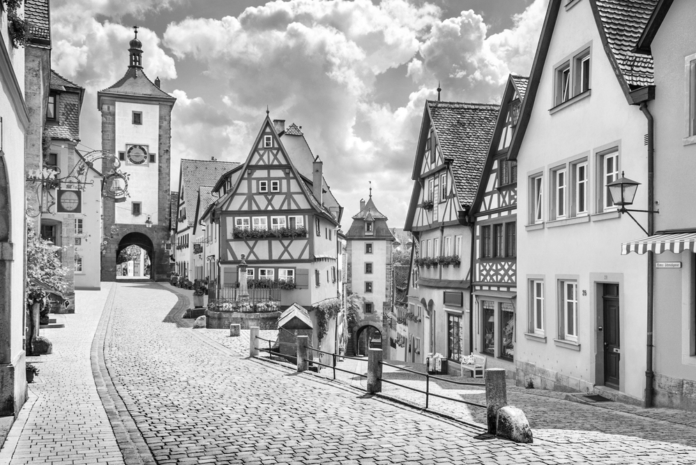
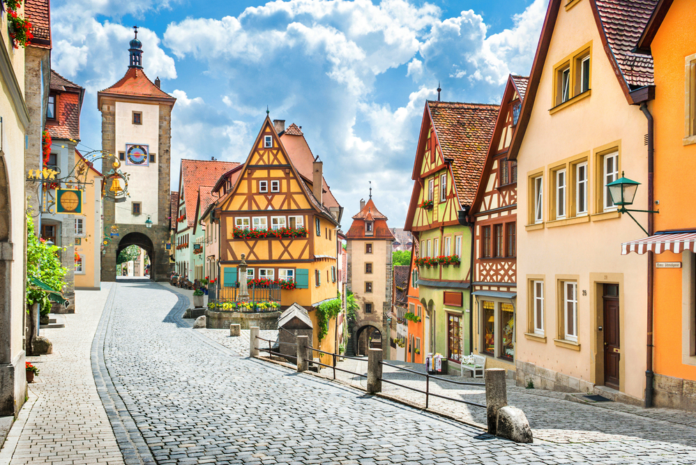
add colored bilateral

diff --git a/bilateral/main.py b/bilateral/main.py
@@ -1,10 +1,10 @@
 from PIL import Image
 from PIL.ImageFilter import GaussianBlur
 import numpy as np
-from scipy.signal import convolve2d
+from scipy.signal import convolve2d, convolve
 
 
-def spatial_kernel(s=1, reduce=True):
+def spatial_kernel(s=1, channels=1, reduce=True):
     l = int(s * 2) | 1  # determine kernel size
     x = np.tile((np.arange(l) - l // 2).reshape(1, l), (l, 1))
     y = np.transpose(x)
@@ -12,43 +12,48 @@ def spatial_kernel(s=1, reduce=True):
     g = np.exp(-d / (2 * (s**2))) / (2 * np.pi * (s**2))
     if reduce:
         g /= np.sum(g.ravel())
+    g = np.dstack([g] * channels)
     return g
 
 def range_kernel(I, s=1, reduce=True):
     assert I.shape[0] == I.shape[1]
-    l = I.shape[0]
+    l, c = I.shape[0], I.shape[-1]
     I = I.copy().astype(np.float64)
     I = np.abs((I - I[l // 2, l // 2]))  # minus center pixel value
+    I = np.max(I, axis=-1)
     k = np.exp(-I / (2 * (s**2))) / (2 * np.pi * (s**2))
     if reduce:
         k /= np.sum(k.ravel())
+    k = np.dstack([k] * c)
     return k
 
 def bilateral_filter(img, s1, s2):
-    g = spatial_kernel(s = s1, reduce = False)
+    channels = img.shape[-1]
+    g = spatial_kernel(s = s1, channels = channels, reduce = False)
     L = g.shape[0]
 
-    h, w = img.shape
-
-    padded_img = np.pad(img, pad_width = L // 2, mode = "edge").astype(np.float64)
+    h, w = img.shape[0], img.shape[1]
+    pad_width = ((L//2, L//2), (L//2, L//2), (0, 0))
+    padded_img = np.pad(img, pad_width = pad_width, mode = "edge").astype(np.float64)
     filtered = np.zeros(img.shape, dtype=np.float64)
     for i in range(L // 2, h + L // 2):
         for j in range(L // 2, w + L // 2):
-            I = padded_img[i - L // 2: i + L // 2 + 1, j - L // 2: j + L // 2 + 1]
+            I = padded_img[i - L // 2: i + L // 2 + 1, j - L // 2: j + L // 2 + 1, :]  # extract patch
             k = range_kernel(I, s = s2, reduce = False)
-            W = np.multiply(g, k).ravel()
-            p = np.dot(I.ravel(), W) / np.sum(W)
-            filtered[i - L // 2, j - L // 2] = p
+            W = np.multiply(g, k).reshape(-1, channels)
+            I = I.reshape(-1, channels)
+            p = np.sum(np.multiply(I, W), axis=0) / np.sum(W, axis=0)
+            filtered[i - L // 2, j - L // 2, :] = p
     filtered = filtered.astype(np.uint8)
     return filtered
 
 if __name__ == '__main__':
-    img = Image.open('../data/town.png').convert('L')
+    img = Image.open('../data/town.png').convert('RGB')
     img = np.array(img)
     k = spatial_kernel(3)
-    gaussian_filtered = convolve2d(img, k, mode='same', fillvalue=255).astype(np.uint8)
+    gaussian_filtered = convolve(img, k, mode='same').astype(np.uint8)
     bilateral_filtered = bilateral_filter(img, 3, 5)
     Image.fromarray(img).save('../results/original.png')
     Image.fromarray(bilateral_filtered).save('../results/bilateral.png')
     Image.fromarray(gaussian_filtered).save('../results/guassian.png')
-    #Image.fromarray(residual).save('test.png')
+    Image.fromarray(residual).save('test.png')

diff --git a/denoise/main.py b/denoise/main.py
@@ -1,0 +1,17 @@
+
+import sys
+sys.path.append("..")
+from PIL import Image
+import numpy as np
+from bilateral.main import bilateral_filter
+
+img = Image.open('../data/lena.png').convert('L')
+img = np.array(img)
+
+noise = np.random.normal(0, 10, size=img.shape)
+noisy_img = (img + noise).astype(np.uint8)
+
+denoised_img = bilateral_filter(noisy_img, 2, 5)
+res = np.hstack([noisy_img, denoised_img, img])
+
+Image.fromarray(res).save('test.png')

diff --git a/pointillism/main.py b/pointillism/main.py
@@ -1,0 +1,17 @@
+import numpy as np
+from PIL import Image, ImageDraw
+
+img = Image.open('../data/town.png').convert('RGB')
+np_img = np.array(img)
+h, w, _ = np_img.shape
+
+canvas = Image.new('RGB', img.size)
+draw = ImageDraw.Draw(canvas)
+
+r = 5
+
+for y in range(h):
+    for x in range(w):
+        box = (x-r, y-r, x+r, y+r)
+        draw.ellipse(box, fill=tuple(np_img[y, x, :]))
+canvas.save('test.jpg')

diff --git a/README.md b/README.md
@@ -3,6 +3,8 @@
 This is a repository for exploring image filters in digital image processing.
 
 ## Bilateral filter
-|Bilateral(3, 5)|Gaussian(3)|
-|--|--|
-|![img](./results/bilateral.png)|![img](./results/guassian.png)|
+|Bilateral(3, 5)|Gaussian(3)|Original|
+|--|--|--|
+|![img](./results/bilateral.png)|![img](./results/guassian.png)|![img](./results/original.png)|
+
+Edges are preserved in bilateral filtered images when using the same spatial kernal sigma.
